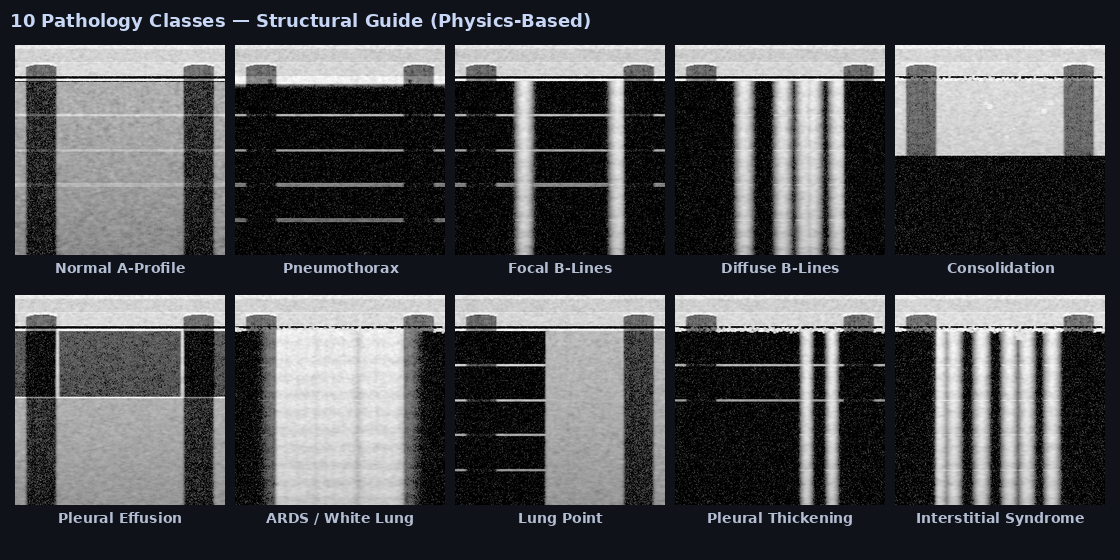
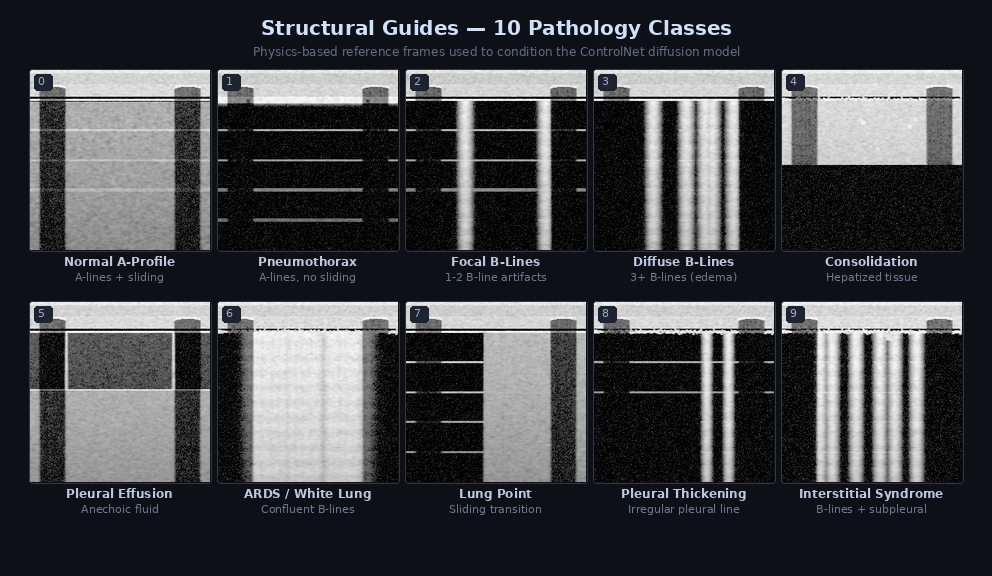
polish clinical reference, diagrams, and add training materials section
- Regenerate BLUE protocol zone diagram: cleaner layout with legend
  table showing zone locations and primary assessments
- Regenerate pathology guide grid: numbered classes, centered labels,
  descriptions below each frame
- Rewrite clinical reference section (Section 0): add BLUE profile
  classification, expanded pathology table with M-mode patterns and
  clinical significance, AI pipeline diagram, scenario-to-findings
  mapping, practice vs test comparison table
- Add Section 11: References & Training Materials with links to
  POCUS 101 guide, BLUE protocol paper, DiffUltra, POCOVID-Net,
  COVIDx-US, training data summary, and model checkpoint inventory
- Add docs/references/README.md as index of clinical training resources

diff --git a/ARCHITECTURE.md b/ARCHITECTURE.md
@@ -15,76 +15,125 @@
 8. [Data Pipeline](#8-data-pipeline)
 9. [Docker Deployment](#9-docker-deployment)
 10. [File Reference](#10-file-reference)
+11. [References & Training Materials](#11-references--training-materials)
 
 ---
 
 ## 0. Clinical Reference
 
-> This section is for physicians and clinical collaborators who want to understand what the simulator does without reading code.
+> For physicians and clinical collaborators. No code knowledge required.
 
 ### What is MoCoLUS?
 
-MoCoLUS is a **lung ultrasound training simulator** that generates realistic B-mode and M-mode POCUS images using AI. It simulates 15 clinical scenarios that a trainee might encounter during a BLUE protocol exam — from normal lungs to tension pneumothorax to ARDS.
+MoCoLUS is an AI-powered **lung ultrasound (POCUS) training simulator**. It generates photorealistic B-mode and M-mode images for 15 clinical scenarios using a diffusion model trained on ~14,000 real clinical POCUS frames.
 
-A trainee opens the web interface, selects (or is assigned) a clinical case, and examines 8 standard probe positions on a virtual chest. At each position, the simulator displays a realistic cine loop showing the expected ultrasound findings for that zone. The trainee then submits a diagnosis and receives immediate feedback.
+**How a trainee uses it:**
+1. Open the web interface on any device (laptop, tablet, workstation)
+2. Select a scenario or enter "Test Me" mode (hidden random case)
+3. Examine 8 BLUE protocol zones using the on-screen probe or a physical BLE probe
+4. Observe B-mode cine loops and M-mode strips at each zone
+5. Submit a diagnosis and receive immediate BLUE protocol feedback
+
+---
 
 ### BLUE Protocol Zones
 
-The simulator uses the standard 8-zone BLUE protocol exam:
+The simulator implements the standard 8-zone BLUE protocol exam adapted from Lichtenstein, 2014. Each zone corresponds to a specific anatomical landmark on the chest wall.
 
-![BLUE Protocol Zones](docs/images/blue_protocol_zones.png)
+> For a comprehensive POCUS training guide, see [Lung Ultrasound Made Easy (POCUS 101)](docs/references/README.md).
 
-Each zone is assigned a pathology based on the clinical scenario. For example, in "Left Pneumothorax," the left-side zones show absent lung sliding with A-lines (A'-profile), while the right-side zones show normal A-profile with sliding.
+![BLUE Protocol — 8 Exam Zones](docs/images/blue_protocol_zones.png)
+
+| Zone | Probe Position | What to Assess |
+|---|---|---|
+| **Upper BLUE (R1/L1)** | 2nd ICS, mid-clavicular line | Pneumothorax (absent sliding), interstitial edema (B-lines) |
+| **Lower BLUE (R2/L2)** | 4-5th ICS, anterior axillary line | B-lines, lung sliding assessment |
+| **PLAPS (R3/L3)** | 10-12th ICS, posterior axillary line | Pleural effusion (quad sign, spine sign), consolidation (shred sign) |
+| **Diaphragm** | Costophrenic angle | Effusion volume, diaphragm excursion |
+
+**BLUE Protocol Profile Classification** (per Lichtenstein, 2008):
+- **A-profile** = A-lines + lung sliding → Normal lungs
+- **B-profile** = B-lines + lung sliding → Pulmonary edema
+- **A'-profile** = A-lines + absent sliding → Pneumothorax
+- **B'-profile** = B-lines + absent sliding → Pneumonia
+- **A/B profile** = A-lines one side, B-lines other → Unilateral pneumonia
+
+---
 
 ### 10 Pathology Classes
 
-The AI model generates frames for 10 distinct pathologies, each with characteristic B-mode and M-mode appearances:
+The AI model generates frames for 10 distinct pathology classes. Each has characteristic B-mode and M-mode appearances that the trainee must learn to recognize.
 
-![Pathology Structural Guides](docs/images/pathology_guides.png)
+![Structural Guides — 10 Pathology Classes](docs/images/pathology_guides.png)
 
-| Class | What the Trainee Sees | Clinical Significance |
-|---|---|---|
-| **Normal A-Profile** | Pleural line + horizontal A-lines + "seashore" M-mode | Healthy lung or COPD — dry interstitium, no consolidation |
-| **Pneumothorax** | Bright pleural line + A-lines + "stratosphere" M-mode | Absent lung sliding — air between visceral and parietal pleura |
-| **Focal B-Lines** | 1-2 vertical laser-like artifacts from pleural line | Normal variant or early interstitial edema |
-| **Diffuse B-Lines** | ≥3 B-lines (B-profile) — A-lines erased | Pulmonary edema, CHF, fluid overload |
-| **Consolidation** | Tissue-like echogenicity with air bronchograms | Hepatized lung — pneumonia, atelectasis |
-| **Pleural Effusion** | Dark (anechoic) fluid above diaphragm, quad sign | Fluid in pleural space — CHF, infection, trauma |
-| **ARDS / White Lung** | Confluent B-lines, bright "white out" appearance | Severe bilateral lung injury — ARDS, COVID pneumonia |
-| **Lung Point** | Transition: one half slides, the other doesn't | Pathognomonic for pneumothorax — marks the PTX boundary |
-| **Pleural Thickening** | Irregular, thickened (>3mm) pleural line | Chronic inflammation, prior pleuritis, mesothelioma |
-| **Interstitial Syndrome** | Multiple B-lines + subpleural consolidations | Interstitial lung disease, viral pneumonitis |
+| # | Pathology | B-Mode Appearance | M-Mode Pattern | Clinical Significance |
+|---|---|---|---|---|
+| 0 | **Normal A-Profile** | Pleural line + horizontal A-lines | Seashore sign | Healthy lung, or COPD (diagnosis of exclusion) |
+| 1 | **Pneumothorax** | Bright pleural line + A-lines, no sliding | Stratosphere/barcode sign | Air between pleural layers — absent sliding rules in PTX |
+| 2 | **Focal B-Lines** | 1-2 vertical comet-tail artifacts | Seashore sign | Normal variant (<3 per field), or early interstitial edema |
+| 3 | **Diffuse B-Lines** | ≥3 B-lines, A-lines erased | Seashore sign | Pulmonary edema (B-profile), CHF, fluid overload |
+| 4 | **Consolidation** | Tissue-like (hepatized) + air bronchograms | Stratosphere sign | Pneumonia, atelectasis — dynamic bronchograms favor infection |
+| 5 | **Pleural Effusion** | Anechoic fluid, quad sign, spine sign | Sinusoid sign | Transudate (CHF) or exudate (infection, malignancy, trauma) |
+| 6 | **ARDS / White Lung** | Confluent B-lines, "white out" | Stratosphere sign | Severe bilateral injury — ARDS, COVID pneumonitis |
+| 7 | **Lung Point** | Sliding ↔ no-sliding transition | Seashore → barcode | Pathognomonic for pneumothorax (100% specificity) |
+| 8 | **Pleural Thickening** | Irregular pleural line (>3mm) | Seashore sign | Chronic inflammation, fibrosis, mesothelioma |
+| 9 | **Interstitial Syndrome** | B-lines + subpleural consolidations | Seashore sign | Interstitial lung disease, viral pneumonitis |
+
+---
 
 ### How the AI Generates These Images
 
-1. **Physics model** builds an anatomically correct structural guide — tissue layers, pleural line depth, A-line spacing, B-line positions, rib shadows
-2. **Real lesion textures** from clinical datasets are blended in at anatomically correct positions (e.g., consolidation near the pleural line, effusion in gravity-dependent areas)
-3. **Diffusion model** (trained on ~14,000 real clinical ultrasound images) transforms the structural guide into a photorealistic frame with realistic speckle texture
+```
+Step 1: Physics Model                    Step 2: Anatomy Bank               Step 3: Diffusion Model
+┌──────────────────────┐        ┌──────────────────────────┐      ┌─────────────────────────┐
+│ Tissue layers:       │        │ Real lesion textures     │      │ ControlNet DDPM         │
+│  skin → fat →        │───────►│ extracted from clinical   │─────►│ (69M params, trained on │
+│  muscle → pleura     │        │ POCUS + spatial PMF      │      │  14,000 real images)    │
+│                      │        │ for anatomically correct  │      │                         │
+│ A-lines, B-lines,    │        │ placement                │      │ Converts structural     │
+│ rib shadows, TGC,    │        │                          │      │ guide → photorealistic  │
+│ speckle noise        │        │ e.g., consolidation near │      │ ultrasound frame        │
+│                      │        │ pleura, effusion inferior│      │                         │
+│ → Structural guide   │        │ → Enhanced guide         │      │ → Final B-mode frame    │
+└──────────────────────┘        └──────────────────────────┘      └─────────────────────────┘
+```
 
-The result looks like a real ultrasound image — not a cartoon or simulation. This is critical for training: if images don't look real, trainees learn to recognize artifacts of the simulation instead of clinical pathology.
+The result looks like a real ultrasound image. This is critical for training — if images look artificial, trainees learn to recognize simulation artifacts instead of clinical pathology.
+
+---
 
 ### 15 Clinical Scenarios
 
-Each scenario represents a complete patient presentation with findings distributed across all 8 zones:
+Each scenario assigns specific pathologies to each of the 8 zones, matching real clinical presentations:
 
-| Scenario | What the trainee should find |
-|---|---|
-| **Normal** | A-profile everywhere, bilateral sliding |
-| **Left/Right Pneumothorax** | A'-profile (no sliding) on affected side, normal contralateral |
-| **PTX with Lung Point** | Transition zone visible — sliding starts/stops |
-| **Pulmonary Edema** | Bilateral B-profile (≥3 B-lines per zone) |
-| **Edema + Effusion** | B-profile + bilateral posterior fluid |
-| **ARDS** | Bilateral white lung, absent sliding |
-| **Pneumonia (L/R/bilateral)** | Consolidation at PLAPS, B-lines anteriorly |
-| **Pleural Effusion** | A-profile anteriorly, fluid posteriorly |
-| **Hemothorax** | Echogenic (not anechoic) fluid — trauma setting |
-| **Pneumonia + Effusion** | Consolidation + parapneumonic fluid |
-| **COPD Exacerbation** | Normal LUS (A-profile + sliding) — diagnosis of exclusion |
+| Scenario | Expected Findings | BLUE Profile |
+|---|---|---|
+| **Normal** | A-lines + sliding everywhere | Bilateral A-profile |
+| **Left Pneumothorax** | No sliding on left, normal right | Left A'-profile |
+| **Right Pneumothorax** | No sliding on right, normal left | Right A'-profile |
+| **PTX + Lung Point** | Transition zone visible on affected side | A'-profile + lung point |
+| **Pulmonary Edema** | ≥3 B-lines bilaterally | Bilateral B-profile |
+| **Edema + Effusion** | B-lines + posterior fluid bilaterally | B-profile + PLAPS effusion |
+| **ARDS** | Confluent B-lines, may have absent sliding | Bilateral white lung |
+| **Left Pneumonia** | Consolidation at L-PLAPS, B-lines anteriorly | Left A/B or C-profile |
+| **Right Pneumonia** | Consolidation at R-PLAPS, B-lines anteriorly | Right A/B or C-profile |
+| **Bilateral Pneumonia** | Bilateral consolidation + interstitial pattern | Bilateral B'-profile |
+| **Right Pleural Effusion** | A-profile anteriorly, fluid at R-PLAPS | A-profile + posterior effusion |
+| **Bilateral Effusion** | Bilateral posterior fluid | PLAPS effusions bilateral |
+| **Hemothorax** | Echogenic fluid (not anechoic) at PLAPS | Trauma setting — hematocrit sign |
+| **Pneumonia + Effusion** | Consolidation + parapneumonic fluid | C-profile + effusion |
+| **COPD Exacerbation** | Normal LUS (A-profile + sliding) | A-profile — diagnosis of exclusion |
+
+---
 
 ### Practice vs Test Mode
 
-- **Practice:** Trainee selects the scenario, can see all findings. For learning.
-- **Test:** Random case, hidden diagnosis. Trainee examines all 8 zones and submits a diagnosis. System provides immediate feedback with BLUE protocol explanation.
+| | Practice Mode | Test Mode |
+|---|---|---|
+| **Scenario** | Trainee selects from dropdown | Random hidden case |
+| **Findings** | Visible in real-time | Must discover by examining zones |
+| **Diagnosis** | Shown alongside findings | Submit guess → instant feedback |
+| **Use case** | Learning BLUE protocol | Competency assessment |
 
 ---
 
@@ -540,3 +589,50 @@ Full environment with CUDA, training support, live diffusion generation. Used fo
 | `style.css` | Dark clinical theme |
 | `probe3d.js` | 3D probe visualization (Three.js) |
 | `probe_mesh.stl` | Probe 3D model |
+
+---
+
+## 11. References & Training Materials
+
+### Clinical Training Resources
+
+| Resource | Description | Location |
+|---|---|---|
+| **Lung Ultrasound Made Easy** (POCUS 101) | Step-by-step POCUS guide: probe positions, all signs/artifacts, pathology profiles, BLUE protocol decision tree | [docs/references/](docs/references/) |
+| **BLUE Protocol** (Lichtenstein, 2008) | Original diagnostic algorithm for acute respiratory failure using lung ultrasound | Lichtenstein DA. *Chest*. 2008;134:117-125 |
+| **Lung Ultrasound in the Critically Ill** (Lichtenstein, 2014) | Comprehensive reference for ICU lung ultrasound, basis for our 8-zone protocol | Lichtenstein DA. *Ann Intensive Care*. 2014;4(1):1 |
+
+### Research Papers (Model & Data)
+
+| Paper | Relevance to MoCoLUS | Citation |
+|---|---|---|
+| **DiffUltra — Lesion-Anatomy Bank** | Inspiration for our anatomy bank: lesion texture extraction + spatial PMF conditioning | Chou et al., "Ultrasound Image Synthesis Using Generative AI for Lung Ultrasound Detection," ISBI 2025, arXiv:2501.06356 |
+| **POCOVID-Net** | Primary training dataset (200+ videos, 8 institutions, CC attribution) | Born et al., "Accelerating Detection of Lung Pathologies with Explainable Ultrasound Image Analysis," *Applied Sciences* 11(2):672, 2021. DOI:10.3390/app11020672 |
+| **COVIDx-US** | Secondary training dataset (EMS/trauma pathologies) | Ebadi et al., "COVIDx-US: An Open-Access Benchmark Dataset," arXiv:2103.10003, 2021 |
+
+### Dataset Provenance
+
+Complete licensing, attribution, per-institution breakdown, and class distribution:
+
+- [data/DATA_PROVENANCE.md](data/DATA_PROVENANCE.md) — Full dataset documentation
+- [data/DATA_ACCESS_REQUESTS.md](data/DATA_ACCESS_REQUESTS.md) — Pending dataset access requests (OpenPOCUS, BEDLUS, ICLUS-DB)
+
+### Training Data Summary
+
+| Source | Frames | License | Classes Covered |
+|---|---|---|---|
+| POCOVID-Net | ~1,800 | CC BY 4.0 | Normal, B-lines diffuse, consolidation, ARDS, pleural thickening, interstitial |
+| COVIDx-US (EMS subset) | ~400 | CC BY-NC 4.0 | Pneumothorax, focal B-lines, effusion, lung point |
+| Butterfly Network | 22 clips | CC BY-NC-SA 4.0 | Effusion, consolidation |
+| LITFL | 44 clips | CC BY-NC-SA 4.0 | Pneumothorax, lung point |
+| University of Florida | 17 clips | CC BY 4.0 | Focal B-lines, effusion |
+| Other (CoreUS, NHS, POCUS Atlas, etc.) | ~150 clips | Various CC | Mixed pathologies |
+| **Total** | **~2,427 labeled frames** | | **10 classes** |
+
+### Model Checkpoints
+
+| Checkpoint | Training Data | Architecture | Purpose |
+|---|---|---|---|
+| `realistic_v4_ab/best.pt` | 14,258 balanced frames + anatomy bank enhancement | ControlNet DDPM (69.2M params) | Production base model — all pathology classes |
+| `realistic_v2_finetune/latest.pt` | Enriched trauma dataset (upsampled PTX/effusion/lung point) | Same architecture | Trauma-specialized — classes 1, 5, 7 |
+| `anatomy_bank.pt` | Extracted from real POCUS dataset | Texture bank + spatial PMFs | Lesion texture + anatomical placement priors |

diff --git a/docs/references/README.md b/docs/references/README.md
@@ -1,0 +1,43 @@
+# Clinical Training References
+
+## Primary POCUS Training Guide
+
+**Lung Ultrasound Made Easy: Step-By-Step Guide**
+- Source: POCUS 101 (www.pocus101.com)
+- Authors: Jade Deschamps, Vi Dinh, et al.
+- URL: https://www.pocus101.com/lung-ultrasound-made-easy-step-by-step-guide/
+
+This guide covers:
+- 6-point lung ultrasound exam protocol (R1/L1, R2/L2, R3/L3)
+- Probe positioning for anterior, lateral, and posterior chest
+- Normal findings: batwing sign, lung sliding, A-lines, seashore sign
+- Pathological findings: absent sliding, B-lines, confluent B-lines, consolidation, effusion
+- BLUE protocol decision tree for acute respiratory failure
+- Disease profiles: pneumothorax, pneumonia, CPE, ARDS, COPD
+
+> Place a PDF copy of this guide in this directory as `Lung_Ultrasound_Made_Easy_POCUS101.pdf` for offline access.
+
+## BLUE Protocol Reference
+
+**Lichtenstein DA, Meziere GA.** Relevance of lung ultrasound in the diagnosis of acute respiratory failure: the BLUE protocol. *Chest*. 2008;134:117-125.
+
+The BLUE protocol classifies lung ultrasound findings into profiles:
+- A-profile (A-lines + sliding) → Normal / COPD / PE
+- B-profile (B-lines + sliding) → Pulmonary edema
+- A'-profile (A-lines, no sliding) → Pneumothorax
+- B'-profile (B-lines, no sliding) → Pneumonia
+- C-profile (consolidation) → Pneumonia
+
+## Additional References
+
+1. **Lichtenstein DA.** Lung ultrasound in the critically ill. *Ann Intensive Care*. 2014;4(1):1. DOI:10.1186/2110-5820-4-1
+
+2. **Born J, et al.** Accelerating Detection of Lung Pathologies with Explainable Ultrasound Image Analysis. *Applied Sciences* 11(2):672, 2021. DOI:10.3390/app11020672
+
+3. **Ebadi A, et al.** COVIDx-US: An Open-Access Benchmark Dataset of Ultrasound Imaging Data for AI-Driven COVID-19 Analytics. arXiv:2103.10003, 2021.
+
+4. **Chou Y, et al.** Ultrasound Image Synthesis Using Generative AI for Lung Ultrasound Detection. ISBI 2025. arXiv:2501.06356.
+
+5. **Volpicelli G, et al.** International evidence-based recommendations for point-of-care lung ultrasound. *Intensive Care Medicine* 38, 2012.
+
+6. **Husain LF, et al.** Sonographic diagnosis of pneumothorax. *J Emerg Trauma Shock*. 2012;5(1):76-81.
